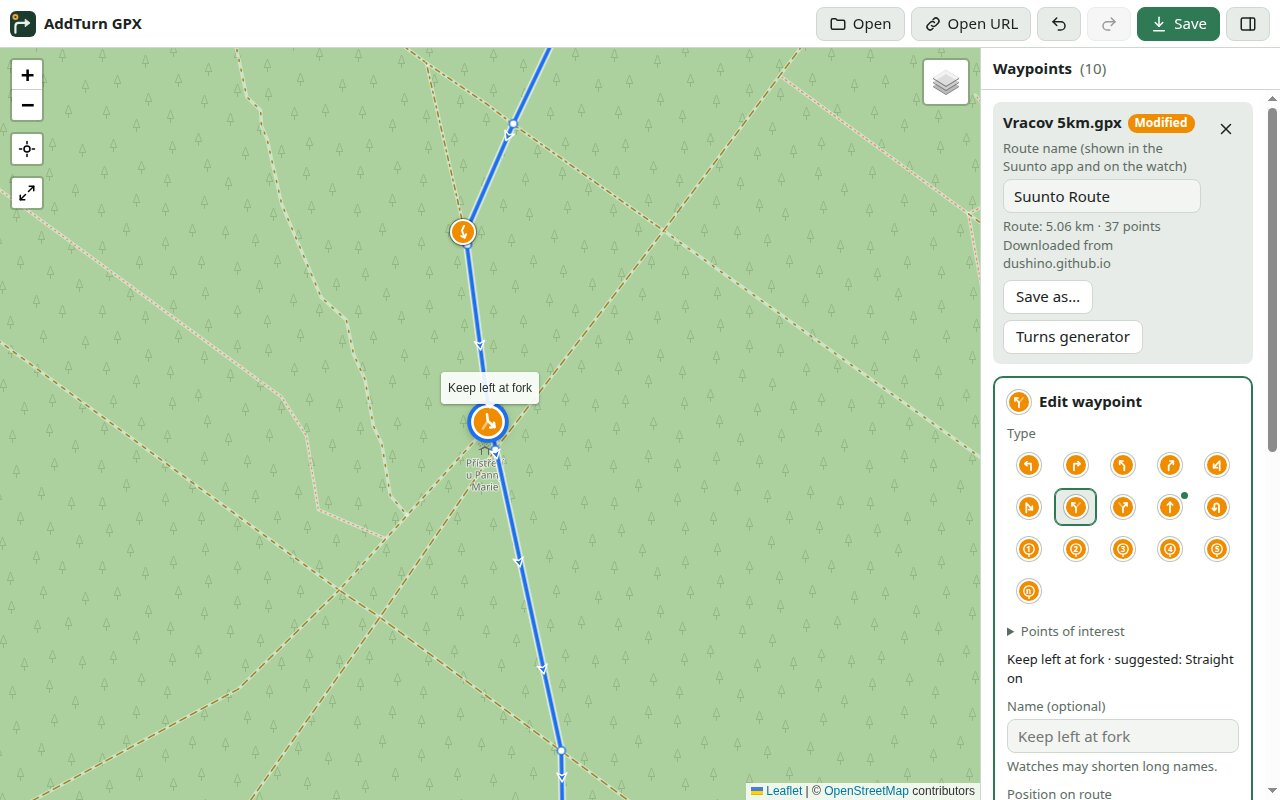
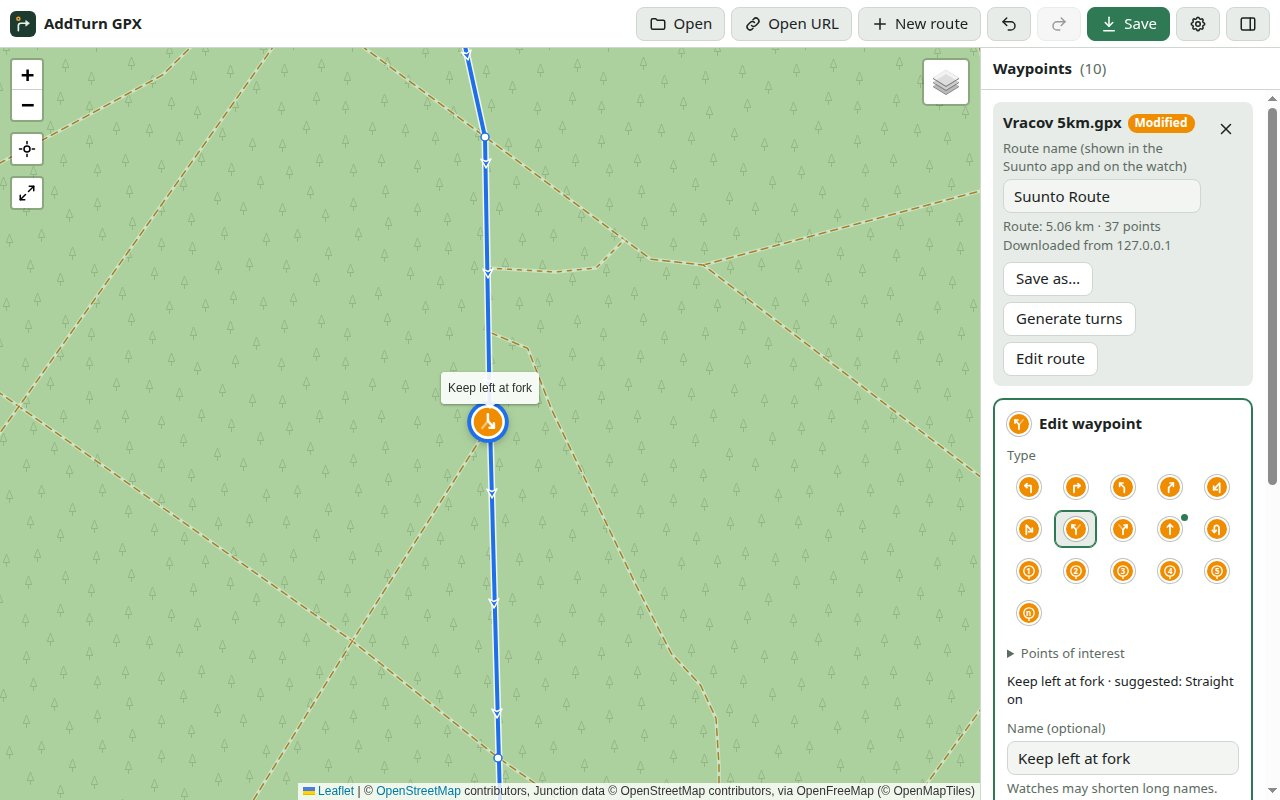
Simplify: Waypoint editor: no Previous / Next point

diff --git a/index.html b/index.html
@@ -2542,26 +2542,14 @@ function renderEditor(){
   inp.addEventListener("change", () => setWptField(w, "name", inp.value.trim()));
   ed.append(lab, inp, el("div", "hint", "Watches may shorten long names."));
 
-  // Poloha
-  ed.append(el("div", "elabel", "Position on route"));
-  const row = el("div", "row");
-  if (hit) {
-    const pts = trackLines[hit.li].pts;
-    const prev = el("button", null, "◀ Previous point"); prev.type = "button";
-    const next = el("button", null, "Next point ▶"); next.type = "button";
-    prev.disabled = hit.idx <= 0;
-    next.disabled = hit.idx >= pts.length - 1;
-    prev.addEventListener("click", () => moveWptTo(w, hit.li, hit.idx - 1));
-    next.addEventListener("click", () => moveWptTo(w, hit.li, hit.idx + 1));
-    row.append(prev, next);
-  } else {
+  // Waypoint mimo bod trasy (Suunto ho ignoruje): přichytit na nejbližší bod trasy
+  if (!hit && trackLines.length) {
+    const row = el("div", "row");
     const snap = el("button", null, "Snap to nearest route point"); snap.type = "button";
-    snap.disabled = !trackLines.length;
     snap.addEventListener("click", () => { const v = nearestVertexGeo(w.latlng); if (v) moveWptTo(w, v.li, v.idx); });
     row.append(snap);
+    ed.append(row);
   }
-  ed.append(row);
-  if (canDrag) ed.append(el("div", "hint", "Tip: you can also drag the marker on the map."));
 
   // Smazání (s potvrzením přímo v panelu)
   const delRow = el("div", "row");

diff --git a/sw.js b/sw.js
@@ -13,7 +13,7 @@
 // Na originu dushino.github.io běží i další aplikace (OK Trainer) se společným
 // úložištěm cache, proto se při aktivaci mažou jen cache s touto předponou.
 const CACHE_PREFIX = "addturngpx-";
-const CACHE_NAME = CACHE_PREFIX + "v55";
+const CACHE_NAME = CACHE_PREFIX + "v56";
 // Soubor sdílený do nainstalované aplikace (manifest → share_target) přijde jako
 // POST na SHARE_URL. Uloží se do vlastní cache, stránka si ho po přesměrování
 // vyzvedne a cache smaže. Názvy = SHARE_CACHE a SHARED_FILE v index.html.

diff --git a/tests/README.md b/tests/README.md
@@ -12,7 +12,7 @@ Requirements: Node.js 22+ and Google Chrome. The runner looks for a `google-chro
 | --- | --- |
 | `tiles.json` | Road data from **vector map tiles**: junctions from OpenFreeMap tiles without any Overpass request, the same junctions and proposed turns as Overpass on the Vracov route, source and credit in the map's attribution line, stored with its source, tile decoder, fallback OpenFreeMap → OpenStreetMap vector tiles → Overpass, a tile retried after HTTP 500, empty tiles not trusted, too many tiles → Overpass, and synthetic tiles for the repairs (T-junction without a shared point, X-crossing, a line's point exactly on another line, bridge, overlapping lines, line cut at the tile edge), and the real tiles on `fixtures/vracov-5.5km.gpx`, whose 90° turn has such a point, and an out-and-back route (`fixtures/vracov-out-and-back.gpx`): turns on the way back at the same junctions, the turn back belonging to the second pass, existing turns protecting only their own pass; turns in advance; and `fixtures/okruh-start.gpx`, which turns 10 m before a fork it never reaches (a turn, not a fork; the crossroads between two route points stops the turn in advance); U-turns where the route goes back the same way (`fixtures/okruh-uturn.gpx`, a 22 m dead-end spur, and synthetic routes: a spur gets one, a tight hairpin bend does not) |
 | `generator.json` | **Generate turns** (with the tile sources blocked, so road data come from the Overpass mock): one button, no card, turns added at once as one Undo step, names, generating again changes nothing, deleted turns come back, it works like Replace all turns (a hand-made turn goes; roundabouts, straight on and points of interest stay), minimum spacing, Undo back to the original file, settings, server failures with automatic retries (overloaded server, empty answer, HTTP 429, request refused, timeout; a non-retryable error is not retried; closing the file stops retrying; a failed answer is never cached), the button while loading, road data stored in the browser (survives a reload, not downloaded again after inserting a route point), Settings → Clear road data |
-| `clicks.json` | Mouse cursor by click target (crosshair over the route, pointer at a waypoint, hand elsewhere), adding by clicking the route, selecting by clicking near a waypoint, closing the editor by clicking an empty place or with Esc, type taken from a selected point of interest, phone layout |
+| `clicks.json` | Mouse cursor by click target (crosshair over the route, pointer at a waypoint, hand elsewhere), adding by clicking the route, selecting by clicking near a waypoint, closing the editor by clicking an empty place or with Esc, type taken from a selected point of interest, phone layout, the waypoint editor without Previous / Next point and with Snap to nearest route point for a waypoint off the route |
 | `categories.json` | Point-of-interest groups: every type in exactly one group, the agreed mapping, a distinct colour per group, selection ring, grouped type picker |
 | `planner.json` | **Route planner** (GraphHopper mock): API key dialog, adding points, distance and climb, points clicked during a request sent together (max. 5, never two profiles in one request), Undo also during a request, per-minute limit (waits and continues, error after the last attempt), daily limit, no route, no network, rejected key, key not in the session, leaving planning, moving / inserting / removing a point (only the affected segments are requested), Undo/Redo without new requests, late answers, a planned route surviving a reload, Finish (Suunto app format, no duplicate joints, normal editing afterwards), on a phone tapping a point, moving and removing it, long-press on the line, Back to start, the toolbar at 320 px |
 | `settings.json` | The Settings drawer: opening and closing, the API key and generator values, a changed value applies to the next Generate turns, no generator card, the toolbar fits on narrow phones |

diff --git a/docs/dev/PROGRESS.md b/docs/dev/PROGRESS.md
@@ -49,6 +49,7 @@ potvrzení od uživatele → další cyklus.
 | 35 | Edit route: posun, smazání a vložení bodů trasy mimo plánovač (mezikrok k přeplánování) | hotovo, potvrzeno uživatelem (2026-11-05) |
 | 36 | Edit route: hledání cesty (Follow roads, GraphHopper) při posunu, vložení a smazání bodu | hotovo, potvrzeno uživatelem (2026-11-05) |
 | 37 | Zjednodušení: Generate turns jedním tlačítkem (Replace, hned zapsat), karta generátoru zrušena | hotovo, potvrzeno uživatelem (2026-11-05) |
+| 38 | Zjednodušení editoru waypointu: bez Position on route (Previous / Next point, tip o tažení) | hotovo, čeká na test uživatele |
 
 ## Deník
 ### Cyklus 0 (2026-10-16)
@@ -451,3 +452,8 @@ potvrzení od uživatele → další cyklus.
 - Implementace: `proposeTurns()` (data + `computeTurns`, mode replace, parametry ze Settings, `over` pro testy) + `generateTurns()` + `applyTurns()` (dřívější applyGenerator, vrací rozdíl); odstraněny `gen`, karta, náhled `genLayer`, invalidace při změně nastavení, CSS karty. Settings: nadpis „Generate turns“, vysvětlení Replace, Clear road data.
 - Testy: generator.json přepsán (21 kroků; ověřeno, že při režimu „missing“ selžou); tiles.json přes `proposeTurns` (pomocník `__T.open` plní `window.gen` ve starém tvaru), settings/clicks/routeedit/planner upraveny. Všechny sady 202/202 (méně kroků než dřív – sloučené chyby serveru, zrušené kroky karty). README EN/CZ přepsány, nový snímek `docs/img/generator.jpg`. Cache v55.
 - Test uživatele: Generate turns funguje správně, potvrzeno (2026-11-05).
+
+### Cyklus 38 – editor waypointu bez Position on route (2026-11-05)
+- Požadavek uživatele: odstranit oblast „Position on route“ (◀ Previous point / Next point ▶ a tip „you can also drag the marker“) – v praxi málo použitelná.
+- Rozhodnutí Claude: tlačítko **Snap to nearest route point** zůstává (na snímku uživatele nebylo): ukazuje se jen u waypointu mimo bod trasy, jediná rychlá oprava varování „Suunto will ignore it“, README na něj odkazuje v legendě barev; je teď bez nadpisu.
+- Testy: nový krok v clicks.json. Všechny sady 203/203. README EN/CZ (řádek o Previous / Next), nový snímek `docs/img/editor.jpg` (starý ukazoval Turns generator i Position on route). Cache v56.

diff --git a/CLAUDE.md b/CLAUDE.md
@@ -47,7 +47,7 @@ jsou v `docs/dev/`; tady je jen to, co je potřeba vědět hned.
   (analýza v `docs/dev/DESIGN.md`).
 
 ## Aktuální stav (2026-10-31)
-- Cykly 17–24 potvrzeny (u 17, 18 a 21 jsou podle uživatele možné pozdější změny). Testy 202/202.
+- Cykly 17–24 potvrzeny (u 17, 18 a 21 jsou podle uživatele možné pozdější změny). Testy 203/203.
 - Cyklus 24 (start bez signálu: cache-first + lišta „New version available – Reload“, v34) potvrzen. Stejná oprava v OK Traineru (`../OK-Trainer`, v7) potvrzena a commitnuta. Start při pomalých / žádných datech uživatel ověří později (u obou aplikací).
 - **Testy na hodinkách odloženy (rozhodnutí uživatele 2026-10-30):** odbočka (TbT) se do pole
   „k místu zájmu / waypointu“ dostane jen v dosahu notifikace (~20 m), POI trvale, ale bez šipky
@@ -62,6 +62,7 @@ jsou v `docs/dev/`; tady je jen to, co je potřeba vědět hned.
 - **Cyklus 35 (2026-11-05):** Edit route – posun, smazání a vložení bodů trasy mimo plánovač (v53), mezikrok k editaci s přeplánováním (cíl uživatele). Potvrzeno uživatelem.
 - **Cyklus 36 (2026-11-05):** Follow roads v Edit route – úsek mezi sousedními waypointy (max. 500 m) se přeplánuje přes GraphHopper (v54). Potvrzeno uživatelem i se skutečným GraphHopperem.
 - **Cyklus 37 (2026-11-05):** zjednodušení – Generate turns jedním tlačítkem (jako Replace all turns, hned zapsat), karta generátoru zrušena, atribuce v mapě, Clear road data v Settings (v55). Potvrzeno uživatelem.
+- **Cyklus 38 (2026-11-05):** editor waypointu bez Position on route (Previous / Next point), Snap to nearest route point u waypointu mimo trasu zůstává (v56). Čeká na test uživatele.
 - **Plánovač tras (rozhodnutí uživatele 2026-10-30):** GraphHopper s vlastním API klíčem každého
   uživatele (ne BRouter/Valhalla, ne sdílený klíč), nezávisle na testech na hodinkách. Výstup dál
   formát test51. Viz `docs/dev/DESIGN.md` → „Rozhodnutí: GraphHopper s vlastním klíčem“. Cykly 25–26 potvrzeny,

diff --git a/README-CZ.md b/README-CZ.md
@@ -118,7 +118,6 @@ Všech 78 typů waypointů, které Suunto zná, má vlastní ikonu. V editoru js
 - **Úprava**: klikni na waypoint na mapě (nebo těsně vedle něj) či v seznamu a otevře se editor. Kliknutím do prázdného místa mapy nebo klávesou Esc editor zavřeš.
   - **Type (typ)**: nahoře pokyny k odbočení a kruhové objezdy, pod *Points of interest* body zájmu. Zelená tečka označuje typ navržený podle úhlu trasy.
   - **Name (název)** je nepovinný. Hodinky mohou dlouhé názvy zkrátit. Každá nová odbočka dostane jako název text pokynu, například *Bear right*, ať ji přidáš ručně, nebo generátorem. Při změně typu se tento text změní s ním. Název, který napíšeš sám, zůstane.
-  - **◀ Previous point / Next point ▶** posunou waypoint po trase.
   - **Delete waypoint** smaže waypoint, s potvrzením.
 - **Tažení**: značku můžeš na počítači přetáhnout myší. Po puštění se přichytí na trasu.
 - **Undo / Redo**: každou úpravu jde vrátit, i automatické generování jedním krokem.

diff --git a/README.md b/README.md
@@ -118,7 +118,6 @@ All 78 waypoint types that Suunto supports have their own icon. In the editor, p
 - **Edit**: click a waypoint on the map (or close to it) or in the list to open the editor. Click an empty place of the map, or press Esc, to close the editor.
   - **Type**: turn instructions and roundabouts at the top, points of interest under *Points of interest*. A green dot marks the type suggested by the route angle.
   - **Name** (optional). Watches may shorten long names. Every new turn gets the text of its instruction as its name, for example *Bear right*, whether you add it by hand or with the generator. When you change the type, this text changes with it. A name you wrote yourself stays.
-  - **◀ Previous point / Next point ▶** move the waypoint along the route.
   - **Delete waypoint**, with a confirmation.
 - **Drag** a marker with the mouse (on a computer). It snaps to the route when you drop it.
 - **Undo / Redo**: every change can be undone, including automatic generation as a single step.
